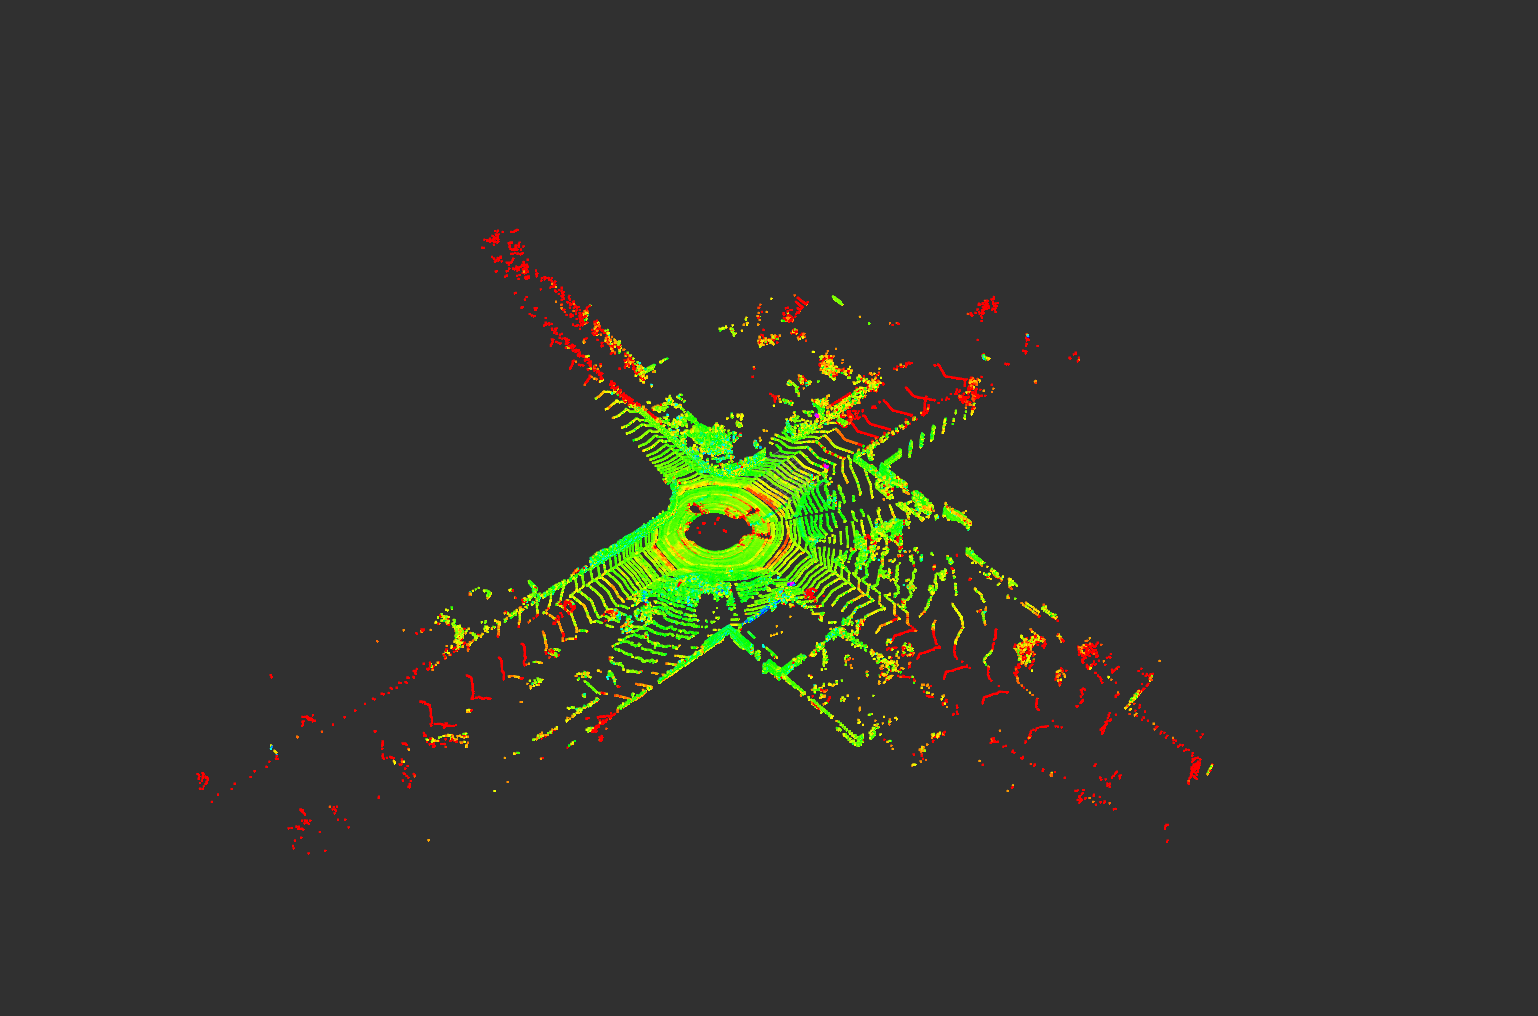
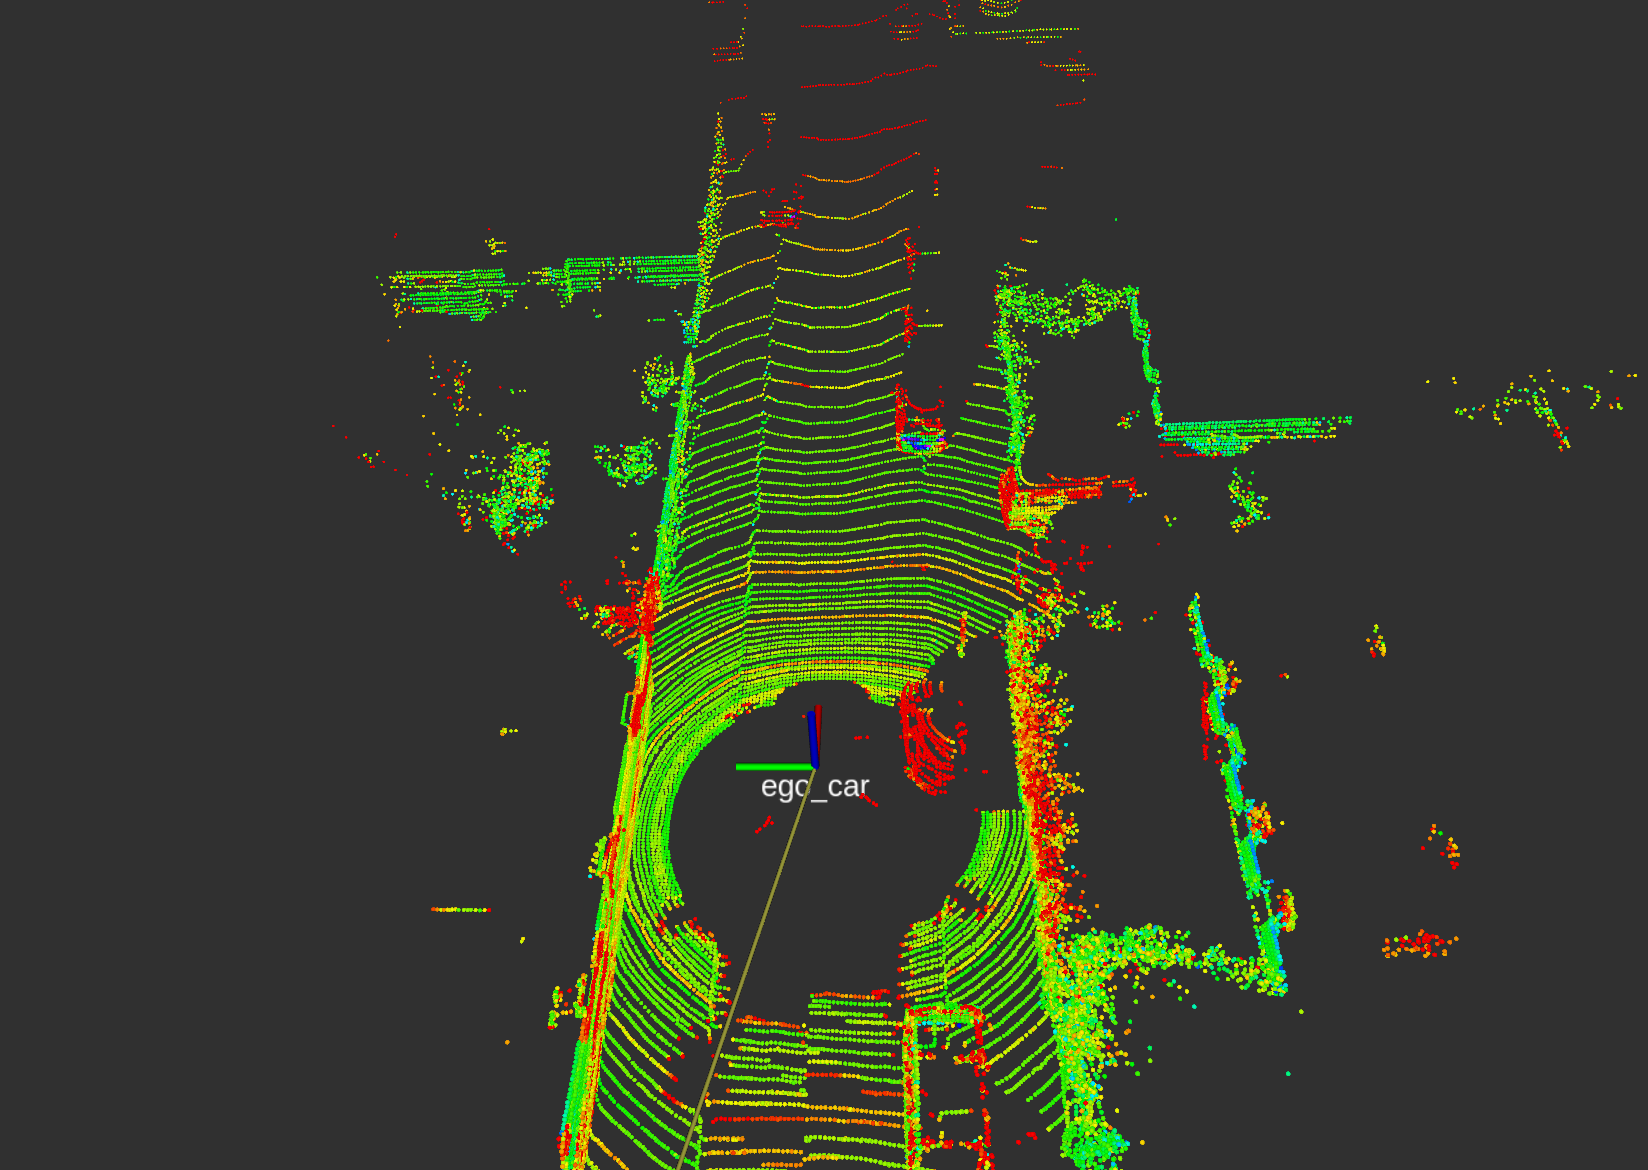
add TF and ring infomation

diff --git a/src/play_kitti.cpp b/src/play_kitti.cpp
@@ -1,7 +1,14 @@
 
 #include "kitti_function.hpp"
-
+#include <tf/transform_broadcaster.h>
+#include <Eigen/Dense>
+#include <tf_conversions/tf_eigen.h>
+#include <tf/transform_datatypes.h>
 namespace fs = std::filesystem;
+
+// pose & scan
+string sequence_scan_dir_;
+string sequence_pose_path_;
 
 std::vector<std::string> sequence_scan_names_;
 std::vector<std::string> sequence_scan_paths_;
@@ -107,8 +114,14 @@ void readValidScans(std::vector<pcl::PointCloud<PointType>::Ptr> &scans_, float 
 
 int main(int argc, char *argv[])
 {
+    ros::init(argc, argv, "globalmap");
+    ros::NodeHandle nh;
 
-    string sequence_scan_dir_ = "/media/yzh/T7/Study/SLAM/Dataset/data_odometry_velodyne/dataset/sequences/05/velodyne/";
+    nh.param<string>("sequence_scan_dir_", sequence_scan_dir_, "/media/yzh/T7/Study/SLAM/Dataset/data_odometry_velodyne/dataset/sequences/05/velodyne/");
+    nh.param<string>("sequence_pose_path_", sequence_pose_path_, "/media/yzh/T7/Study/SLAM/Dataset/data_odometry_labels/dataset/sequences/05/poses.txt");
+    cout << sequence_scan_dir_ << std::endl;
+    cout << sequence_pose_path_ << std::endl;
+
     for (auto file : fs::directory_iterator(sequence_scan_dir_))
     {
         sequence_scan_names_.emplace_back(file.path().filename());
@@ -120,8 +133,7 @@ int main(int argc, char *argv[])
     {
         cout << sequence_scan_names_.at(i) << " ";
     }
-    // pose
-    string sequence_pose_path_ = "/media/yzh/T7/Study/SLAM/Dataset/data_odometry_labels/dataset/sequences/05/poses.txt";
+
     std::ifstream pose_file_handle(sequence_pose_path_);
 
     // TODO: rotate to world(for kitti)
@@ -166,10 +178,9 @@ int main(int argc, char *argv[])
     readValidScans(scans_);
     auto scans_size = scans_.size();
 
-    ros::init(argc, argv, "globalmap");
-    ros::NodeHandle nh;
     ros::Publisher scans_pub = nh.advertise<sensor_msgs::PointCloud2>("scans_pub", 1);
-    ros::Rate rate(2);
+    tf::TransformBroadcaster tf_broadcaster;
+    ros::Rate rate(5);
     int scan_idx = 0;
     while (ros::ok())
     {
@@ -179,6 +190,24 @@ int main(int argc, char *argv[])
             scan_idx++;
             auto ii_scan = scans_.at(scan_idx);      // pcl::PointCloud<PointType>::Ptr
             auto ii_pose = scan_poses_.at(scan_idx); // Eigen::Matrix4d
+
+            // ?calculate the rings for points
+            // 计算每个点的ring值
+            float fov_down = -24.9 / 180.0 * M_PI;
+            float fov = (abs(-24.9) + abs(2.0)) / 180.0 * M_PI;
+            int max = 0;
+            int min = 10;
+            pcl::PointCloud<PointType>::Ptr scan_ring(new pcl::PointCloud<PointType>());
+            for (auto &pt : *ii_scan)
+            {
+                float distance = std::hypot(pt.x, pt.y);
+                float vertical_angle = std::atan2(pt.z, distance);
+                int ring = (vertical_angle + abs(fov_down)) / fov * 64;
+                ring = ring > 63 ? 63 : ring;
+                ring = ring < 0 ? 0 : ring;
+                pt.intensity = ring;
+            }
+
             // local to global (local2global)
             pcl::PointCloud<PointType>::Ptr scan_global_coord(new pcl::PointCloud<PointType>());
             pcl::transformPointCloud(*ii_scan, *scan_global_coord, kSE3MatExtrinsicLiDARtoPoseBase);
@@ -188,6 +217,18 @@ int main(int argc, char *argv[])
             lidar_msg.header.stamp = ros::Time::now();
             lidar_msg.header.frame_id = "world";
             scans_pub.publish(lidar_msg);
+
+            // ?TF publishing
+            auto ego_car_link = ii_pose * kSE3MatExtrinsicLiDARtoPoseBase;
+            Eigen::Quaterniond eigen_quat(ego_car_link.block<3, 3>(0, 0).cast<double>());
+            Eigen::Vector3d eigen_trans(ego_car_link.block<3, 1>(0, 3).cast<double>());
+            tf::Quaternion tf_quat;
+            tf::Vector3 tf_trans;
+            tf::quaternionEigenToTF(eigen_quat, tf_quat);
+            tf::vectorEigenToTF(eigen_trans, tf_trans);
+            tf::StampedTransform tf_map2ego(tf::Transform(tf_quat, tf_trans), ros::Time::now(), "world", "ego_car");
+            tf_broadcaster.sendTransform(tf_map2ego);
+
             std::cout << "Publishing" << std::endl;
         }
         else

diff --git a/src/pcd_pub.cpp b/src/pcd_pub.cpp
@@ -31,7 +31,7 @@ int main(int argc, char **argv)
     pcl::toROSMsg(*cloud, cloud_msg);
 
     // Set the frame ID and timestamp
-    cloud_msg.header.frame_id = "map";
+    cloud_msg.header.frame_id = "world";
     cloud_msg.header.stamp = ros::Time::now();
 
     // Create a publisher for the PointCloud2 message

diff --git a/readme.md b/readme.md
@@ -1,19 +1,36 @@
 # *Myros_tools*
+
 - Some tools used in ROS.
 
+## Requirements
 
-## Requirements 
 - Based on C++17
 - ROS (and Eigen, PCL, OpenMP): the all examples in this readme are tested under Ubuntu 20.04 and ROS Noetic.
 
-## :star: Example
+## ⭐ Node Example
+
 - [bin2global_map](myros_tools/src/bin2global_map.cpp): Generates a global map form kitti datas.
-![](imgs/05.png)
-
+  ![](imgs/05.png)
 - [pcd_pub](myros_tools/src/pcd_pub.cpp): Publish the global map pcd file to rviz.
-![](imgs/05r.png)
-Poor raycasting: Using raycasting methods to remove dynamic objects. 
-![](imgs/poor_raycasting.png)
+  ![](imgs/05r.png)
+  Poor raycasting: Using raycasting methods to remove dynamic objects.
+  ![](imgs/poor_raycasting.png)
+- [play_kitti](myros_tools/src/play_kitti.cpp): Publish the kitti bin data and TF to rviz in real-time in the style of query scan.
 
-- [play_kitti](myros_tools/src/play_kitti.cpp): Publish the kitti bin data to rviz in real-time in the style of query scan.
+```
+roslaunch myros_tools play_kitti.launch 
+```
+
 ![](imgs/scan.png)
+
+- With ring 0-64:
+
+![img](imgs/ring.png)
+
+## 💬 *Tips*
+
+- subscribe to the topic, and save the pointcloud to pcd file.
+
+```
+rosrun pcl_ros pointcloud_to_pcd input:=/point_cloud_topic _prefix:=./pcd_save_path
+```
